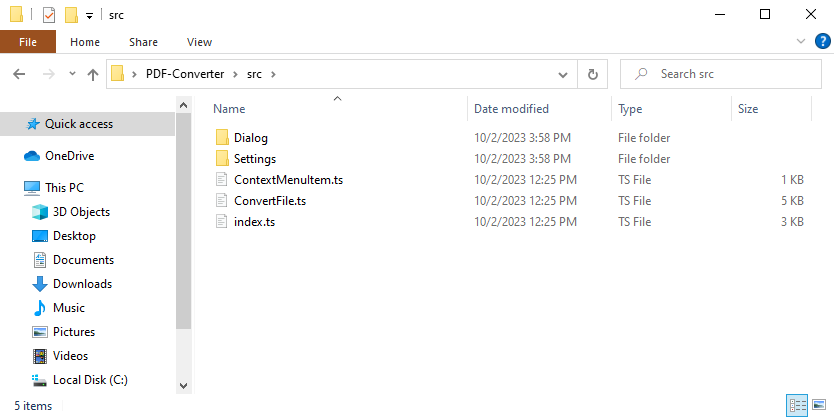
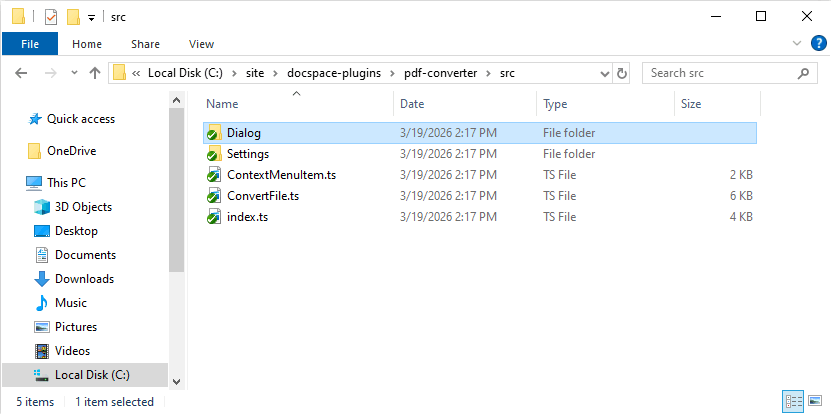
docs(plugins-sdk): refresh CLI/folder screenshots, add dark variant
Update creating-template.png and plugin-structure.png to match current
CLI output and naming, add plugin-structure.dark.png, and wire up the
light/dark pair in get-started.md and coding-plugin.md.

diff --git a/site/docspace/plugins-sdk/get-started/get-started.md b/site/docspace/plugins-sdk/get-started/get-started.md
@@ -61,7 +61,7 @@ Develop a plugin. Follow the plugin structure described [here](../usage-sdk/plug
 
 - Write code for each [plugin type](../usage-sdk/coding-plugin/plugin-types/plugin-types.md) using the corresponding variables, methods and [items](../usage-sdk/coding-plugin/plugin-items/plugin-items.md). Put the scripts into the *src* folder. Specify the required [Plugin](../usage-sdk/coding-plugin/plugin-types/plugin.md) interface for each plugin to be embedded in the portal.
 
-  ![Plugin structure](/assets/images/docspace/plugin-structure.png)
+  ![Plugin structure](/assets/images/docspace/plugin-structure.png#gh-light-mode-only)![Plugin structure](/assets/images/docspace/plugin-structure.dark.png#gh-dark-mode-only)
 
 - Specify [plugin messages](../usage-sdk/coding-plugin/plugin-message.md) that will be returned by the items. Use the appropriate [events](../usage-sdk/coding-plugin/events.md) that will be processed on the portal side.
 

diff --git a/site/docspace/plugins-sdk/usage-sdk/coding-plugin/coding-plugin.md b/site/docspace/plugins-sdk/usage-sdk/coding-plugin/coding-plugin.md
@@ -8,7 +8,7 @@ Develop a plugin. Follow the plugin structure described [here](../plugin-structu
 
 - Write code for each [plugin type](./plugin-types/plugin-types.md) using the corresponding variables, methods and [items](./plugin-items/plugin-items.md). Put the scripts into the *src* folder. Specify the required [Plugin](plugin-types/plugin.md) interface for each plugin to be embedded in the portal.
 
-  ![Plugin structure](/assets/images/docspace/plugin-structure.png)
+  ![Plugin structure](/assets/images/docspace/plugin-structure.png#gh-light-mode-only)![Plugin structure](/assets/images/docspace/plugin-structure.dark.png#gh-dark-mode-only)
 
 - Specify [plugin messages](plugin-message.md) that will be returned by the items. Use the appropriate [events](events.md) that will be processed on the portal side.
 
